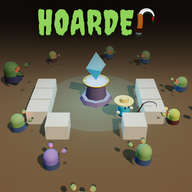
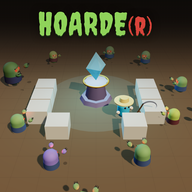
Hoarde(r) v0.68
Claude-Session: https://claude.ai/code/session_01X5PDn52qsJqHWdvAZB4ZQ8

diff --git a/index.html b/index.html
@@ -485,7 +485,7 @@ body.attract #menu .card{background:rgba(30,20,40,.72);border-radius:22px;paddin
 </div>
 <div class="screen" id="menu">
   <div class="card">
-    <h1 class="logo"><img src="logo.png" alt="Hoarde(r)" width="880" height="237"></h1>
+    <h1 class="logo"><img src="logo.png" alt="Hoarde(r)" width="880" height="224"></h1>
     <p>Fight the hoard &amp; defend your crystal</p>
     <button class="btn" id="bContinue" hidden>Continue <span id="contLv"></span></button>
     <button class="btn" id="bPlay">New game</button>
@@ -503,7 +503,7 @@ body.attract #menu .card{background:rgba(30,20,40,.72);border-radius:22px;paddin
       <p class="cstat" id="coopStat" hidden></p>
     </div>
     <div class="runs" id="runs"></div>
-    <div class="keys">Best: <span id="menuBest">Lv 0</span><br>v0.67</div>
+    <div class="keys">Best: <span id="menuBest">Lv 0</span><br>v0.68</div>
   </div>
 </div>
 <div class="screen" id="over" hidden>

diff --git a/sw.js b/sw.js
@@ -1,5 +1,5 @@
 // Bump VERSION whenever the game changes so phones pick up the new build.
-const VERSION = 'hoarder-v0.67';
+const VERSION = 'hoarder-v0.68';
 const CORE = ['./', './index.html', './three.module.min.js', './manifest.webmanifest', './icon-192.png', './icon-512.png', './icon-maskable-512.png', './apple-touch-icon.png', './creepster.woff2', './logo.png'];
 self.addEventListener('install', e => { e.waitUntil(caches.open(VERSION).then(c => c.addAll(CORE)).then(() => self.skipWaiting())); });
 self.addEventListener('activate', e => { e.waitUntil(caches.keys().then(ks => Promise.all(ks.filter(k => k !== VERSION).map(k => caches.delete(k)))).then(() => self.clients.claim())); });
